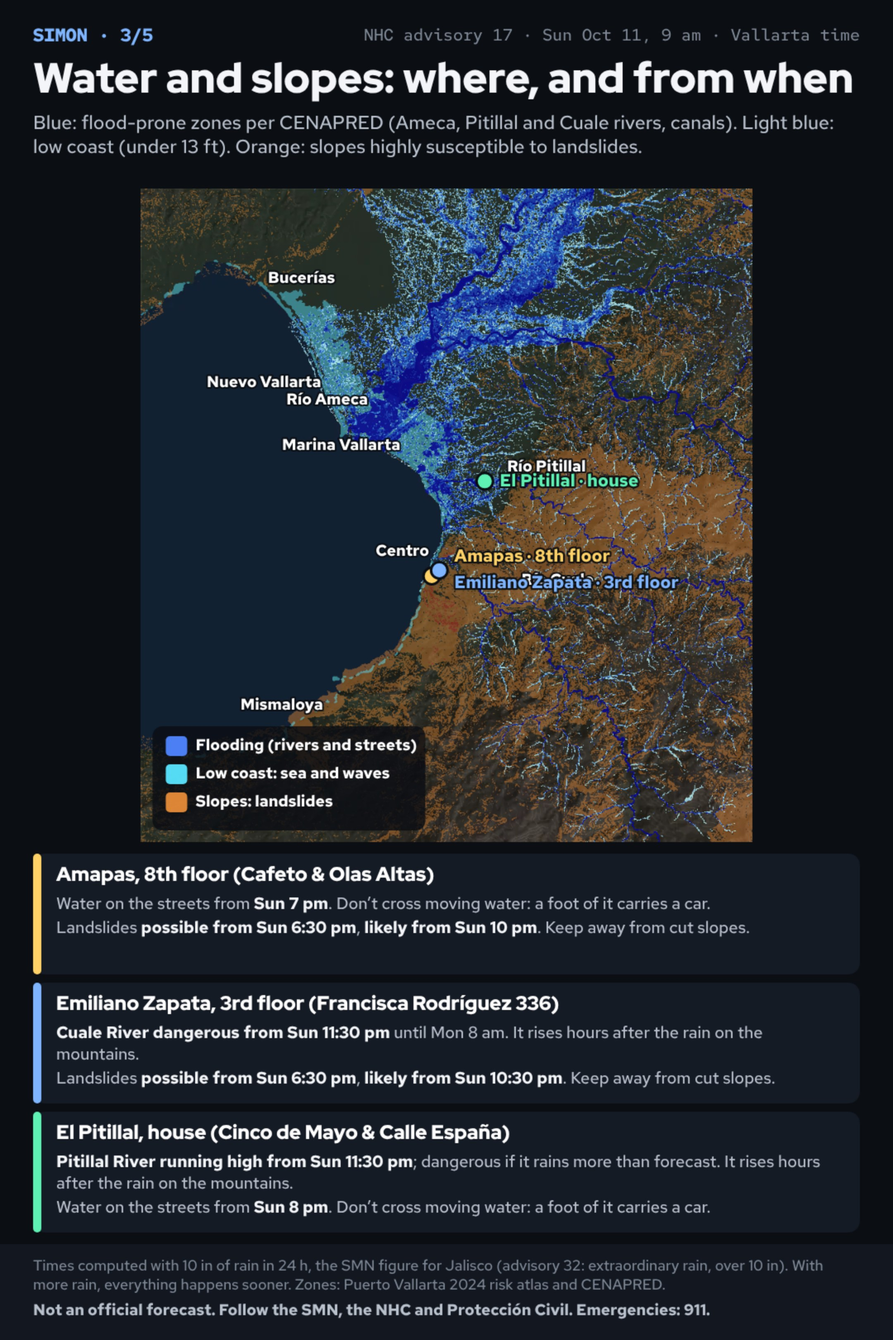
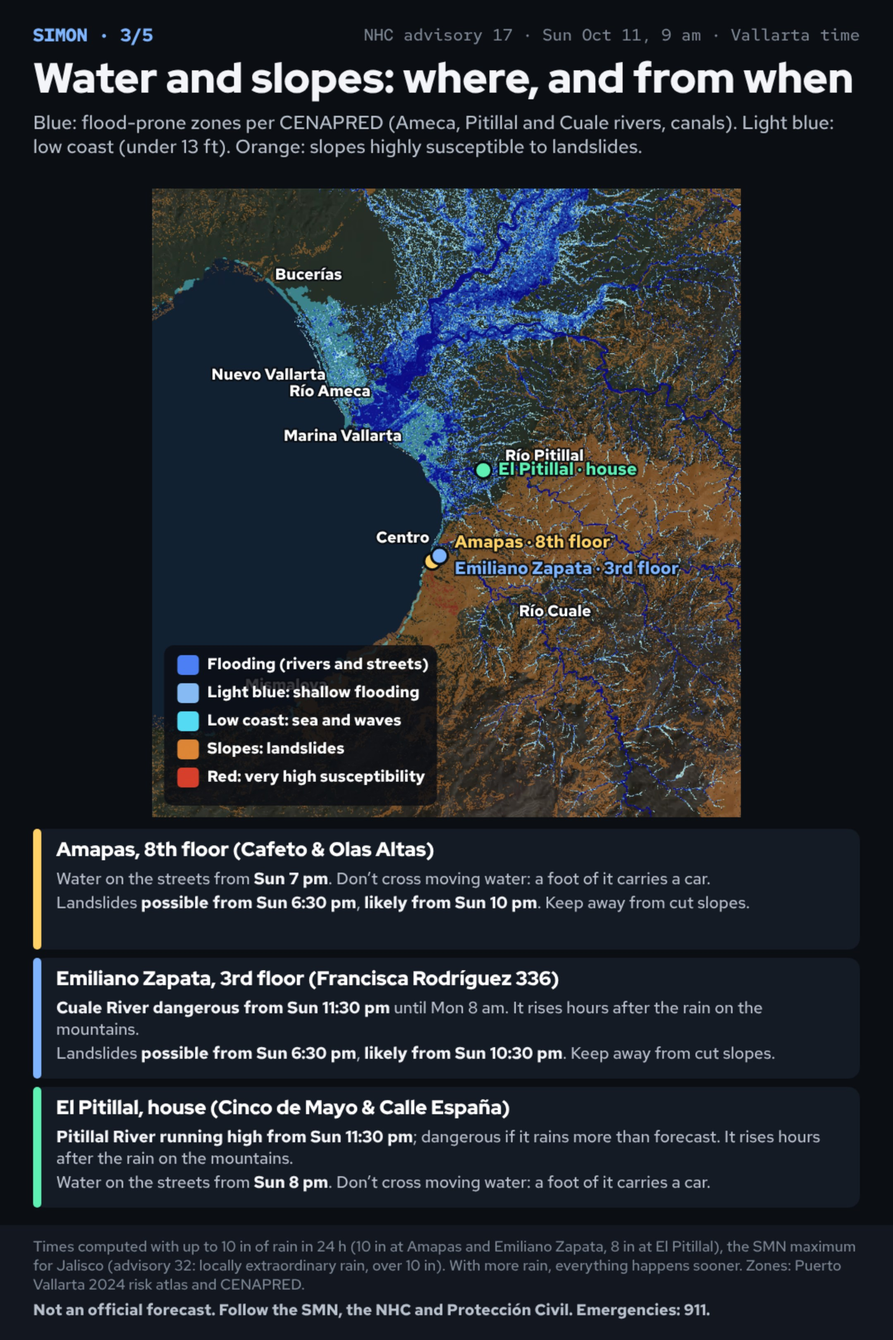
Simon graphics: fixes from the independent verification pass
Tropical-storm wording only where the stated sustained wind reaches it;
the worst stretch ends with the last hazard drawn (Monday 10 am); the
center's direction derived from its bearing (west-southwest); English
midnight/noon; Nayarit north-shore places carry the SMN Nayarit rain band;
arrival map marks cells never reaching 39 mph; models graphic: thresholds
at 63/119 km/h, NHC line to 48 h, sample-size caveat, reading paragraph
from the data.

Claude-Session: https://claude.ai/code/session_01FJNjJWTDcgPgB2hpttgoDr

Changed region(s): [[0.031, 0.1247, 0.9616, 0.9664]]

diff --git a/hurricane-simon/bay/src/graphics.html b/hurricane-simon/bay/src/graphics.html
@@ -18,7 +18,7 @@ var DS = {es: ['dom', 'lun', 'mar', 'mié', 'jue', 'vie', 'sáb'], en: ['Sun', '
 var DL = {es: ['domingo', 'lunes', 'martes', 'miércoles', 'jueves', 'viernes', 'sábado'], en: ['Sunday', 'Monday', 'Tuesday', 'Wednesday', 'Thursday', 'Friday', 'Saturday']};
 function cst(iso){ return new Date(Date.parse(iso.replace('Z', ':00Z')) - 6 * 3600e3); }
 function roundH(iso, m){ var d = cst(iso); var ms = (m || 30) * 60e3; return new Date(Math.round(d.getTime() / ms) * ms); }
-function hr(d){ var h = d.getUTCHours(), m = d.getUTCMinutes(); if (LANG === 'es') return String(h).padStart(2, '0') + ':' + String(m).padStart(2, '0'); var h12 = h % 12 || 12; return h12 + (m ? ':' + String(m).padStart(2, '0') : '') + (h < 12 ? ' am' : ' pm'); }
+function hr(d){ var h = d.getUTCHours(), m = d.getUTCMinutes(); if (LANG === 'es') return String(h).padStart(2, '0') + ':' + String(m).padStart(2, '0'); if (!m && h === 0) return 'midnight'; if (!m && h === 12) return 'noon'; var h12 = h % 12 || 12; return h12 + (m ? ':' + String(m).padStart(2, '0') : '') + (h < 12 ? ' am' : ' pm'); }
 function dh(iso, m){ var d = roundH(iso, m); return DS[LANG][d.getUTCDay()] + ' ' + hr(d); }
 function dhl(iso, m){ var d = roundH(iso, m); return DL[LANG][d.getUTCDay()] + ' ' + hr(d); }
 function span(a, b, m){ var da = roundH(a, m), db = roundH(b, m); if (da.getUTCDay() === db.getUTCDay()) return DS[LANG][da.getUTCDay()] + ' ' + hr(da) + '–' + hr(db); return DS[LANG][da.getUTCDay()] + ' ' + hr(da) + ' – ' + DS[LANG][db.getUTCDay()] + ' ' + hr(db); }
@@ -32,7 +32,9 @@ function rate(mmh){ return LANG === 'es' ? Math.round(mmh) + ' mm/h' : (mmh / 25
 function dist(km){ return LANG === 'es' ? Math.round(km / 5) * 5 + ' km' : Math.round(km / 1.609 / 5) * 5 + ' mi'; }
 var C16 = {es: ['N', 'NNE', 'NE', 'ENE', 'E', 'ESE', 'SE', 'SSE', 'S', 'SSO', 'SO', 'OSO', 'O', 'ONO', 'NO', 'NNO'], en: ['N', 'NNE', 'NE', 'ENE', 'E', 'ESE', 'SE', 'SSE', 'S', 'SSW', 'SW', 'WSW', 'W', 'WNW', 'NW', 'NNW']};
 var C8L = {es: ['norte', 'noreste', 'este', 'sureste', 'sur', 'suroeste', 'oeste', 'noroeste'], en: ['north', 'northeast', 'east', 'southeast', 'south', 'southwest', 'west', 'northwest']};
-function c16(d){ return C16[LANG][Math.round(d / 22.5) % 16]; } function c8(d){ return C8L[LANG][Math.round(d / 45) % 8]; }
+function c16(d){ return C16[LANG][Math.round(d / 22.5) % 16]; }
+var C16L = {es: ['norte', 'norte-noreste', 'noreste', 'este-noreste', 'este', 'este-sureste', 'sureste', 'sur-sureste', 'sur', 'sur-suroeste', 'suroeste', 'oeste-suroeste', 'oeste', 'oeste-noroeste', 'noroeste', 'norte-noroeste'], en: ['north', 'north-northeast', 'northeast', 'east-northeast', 'east', 'east-southeast', 'southeast', 'south-southeast', 'south', 'south-southwest', 'southwest', 'west-southwest', 'west', 'west-northwest', 'northwest', 'north-northwest']};
+function c16l(d){ return C16L[LANG][Math.round(d / 22.5) % 16]; } function c8(d){ return C8L[LANG][Math.round(d / 45) % 8]; }
 // ---------- drawing helpers ----------
 function roundRect(x, y, w, h, r){ cx.beginPath(); cx.moveTo(x + r, y); cx.arcTo(x + w, y, x + w, y + h, r); cx.arcTo(x + w, y + h, x, y + h, r); cx.arcTo(x, y + h, x, y, r); cx.arcTo(x, y, x + w, y, r); cx.closePath(); }
 function text(s, x, y, size, color, weight, align, font, halo){ cx.font = (weight || 500) + ' ' + size + 'px ' + (font || FT); cx.fillStyle = color || C.ink; cx.textAlign = align || 'left'; cx.textBaseline = 'middle';
@@ -70,7 +72,7 @@ function advLine(){ var m = /^(\d{1,2})(\d{2}) ([AP])M \w+ (\w{3}) \w{3} (\d+)/.
 var MAP_TOP = 228;
 var NOW_MS = Date.parse(BAY.t_obs.replace('Z', ':00Z'));
 function earlyTxt(iso){ return Date.parse(iso.replace('Z', ':00Z')) <= NOW_MS ? L('ya puede empezar en cualquier momento', 'it can start at any time now') : L('podría empezar desde ' + dh(iso), 'could start as early as ' + dh(iso)); }
-var SMN_AV = __SMN_AV__, SMN_RAIN = [250, null];   // SMN aviso quoted (build_graphics.py): rain for coastal/eastern Jalisco, [low, high]; high null = 'more than low'
+var SMN_AV = __SMN_AV__, SMN_RAIN = [250, null], SMN_RAIN_NAY = [75, 150];   // SMN aviso quoted (build_graphics.py): rain for coastal/eastern Jalisco, [low, high]; high null = 'more than low'
 function header(n, title, sub){ cx.fillStyle = C.bg; cx.fillRect(0, 0, W, H);
   text('SIMON · ' + n + '/5', 40, 44, 22, C.accent, 700, 'left', FM);
   text(advLine() + ' · ' + L('hora de Vallarta', 'Vallarta time'), W - 40, 44, 20, C.mute, 500, 'right', FM);
@@ -112,73 +114,78 @@ function siteCards(y0, lines, hgt){ var ch = hgt || 146; SITES.forEach(function(
 // ====================== 1. WIND ======================
 function gWind(){ header(1, L('Viento: cuánto, de dónde y dónde pega más', 'Wind: how strong, from where, where it hits hardest'),
     L('Colores: viento sostenido máximo sobre agua abierta si el centro sigue exactamente la línea del NHC. Flechas: hacia dónde sopla cuando es más fuerte. Línea blanca: trayectoria del NHC.', 'Colors: peak sustained wind over open water if the center follows the NHC line exactly. Arrows: where it blows toward when strongest. White line: NHC track.'));
-  var R = mapRect(MAP_TOP, 744, VB, 1080, 1039); cx.drawImage(IMG.bay_base, R.x, R.y, R.w, R.h);
-  cells(R, function(k){ var c = catCol(G.peak_kt[k]); return c ? hexA(c, 0.5) : null; });
+  var R = mapRect(MAP_TOP, 724, VB, 1080, 1039); cx.drawImage(IMG.bay_base, R.x, R.y, R.w, R.h);
+  cells(R, function(k){ var c = catCol(G.peak_kt[k]); return c ? hexA(c, 0.7) : null; });
   clipMap(R); for (var j = 2; j < G.ny; j += 4) for (var i = 2; i < G.nx; i += 4){ var k = j * G.nx + i; if (G.peak_kt[k] < 25) continue; var q = px(R, G.lat0 - j * G.d, G.lon0 + i * G.d); arrow(q[0], q[1], (G.dir[k] + 180) % 360, 18 + G.peak_kt[k] / 5, 'rgba(255,255,255,.75)', 2.5); } cx.restore();
   trackLine(R); placeLabels(R, function(p){ return spdK(p.peak_kt); }, SKIP_BAY); sitePins(R);
-  legendStrip(R.y + R.h + 26, [[hexA(C.t1, .9), L('45–62 km/h: fuerte', '29–38 mph: strong')], [hexA(C.t2, .9), L('63–92: tormenta tropical', '39–57: tropical storm')], [hexA(C.t3, .9), L('93–118: TT fuerte', '58–73: strong TS')], [hexA(C.t4, .9), L('119+: huracán', '74+: hurricane')]]);
+  legendStrip(R.y + R.h + 26, [[hexA(C.t1, .7), L('45–62 km/h: fuerte', '29–38 mph: strong')], [hexA(C.t2, .7), L('63–92: tormenta tropical', '39–57: tropical storm')], [hexA(C.t3, .7), L('93–118: TT fuerte', '58–73: strong TS')], [hexA(C.t4, .7), L('119+: huracán', '74+: hurricane')]]);
   siteCards(R.y + R.h + 56, function(s){ var w = s.wind, dir = c8(w.dir_at_peak); return [
     L('Sostenido hasta *' + spd(w.peak_vb_kmh) + '*, rachas hasta *' + spd(w.peak_gb_kmh) + '*, del *' + dir + '*.', 'Sustained up to *' + spd(w.peak_vb_kmh) + '*, gusts to *' + spd(w.peak_gb_kmh) + '*, from the *' + dir + '*.'),
-    w.ts ? L('Viento de tormenta tropical *' + spanW(w.ts) + '*. Lo más fuerte: hacia *' + dh(w.peak_t) + '* y al pasar el centro, *' + dh(s.closest.t) + '*.', 'Tropical-storm-force wind *' + spanW(w.ts) + '*. Strongest around *' + dh(w.peak_t) + '* and as the center passes, *' + dh(s.closest.t) + '*.')
+    (w.ts && w.peak_vb_kmh >= 63) ? L('Viento de tormenta tropical *' + spanW(w.ts) + '*. Lo más fuerte al pasar el centro, *' + dh(s.closest.t) + '*.', 'Tropical-storm-force wind *' + spanW(w.ts) + '*. Strongest as the center passes, *' + dh(s.closest.t) + '*.')
+         : w.peak_gb_kmh >= 63 ? L('Viento fuerte, con rachas de tormenta tropical, *' + spanW(w.worst) + '*. Lo más fuerte al pasar el centro, *' + dh(s.closest.t) + '*.', 'Strong wind, with tropical-storm-force gusts, *' + spanW(w.worst) + '*. Strongest as the center passes, *' + dh(s.closest.t) + '*.')
          : L('Viento fuerte con rachas *' + spanW(w.worst) + '*. Lo más fuerte al pasar el centro, *' + dh(s.closest.t) + '*.', 'Strong, gusty wind *' + spanW(w.worst) + '*. Strongest as the center passes, *' + dh(s.closest.t) + '*.')]; });
-  footer([L('Cifras de los tres sitios: con las probabilidades de viento del NHC para Puerto Vallarta (' + PP['34'] + '% tormenta tropical · ' + PP['50'] + '% de 93 km/h o más · ' + PP['64'] + '% huracán) y la altura y el entorno de cada edificio. Pueden ser mayores o menores.', 'Site figures: from the NHC wind odds for Puerto Vallarta (' + PP['34'] + '% tropical storm · ' + PP['50'] + '% for 58 mph or more · ' + PP['64'] + '% hurricane) and each building’s height and surroundings. They can run higher or lower.')]); }
+  footer([L('Cifras de los tres sitios: con las probabilidades de viento del NHC para Puerto Vallarta (' + PP['34'] + '% tormenta tropical · ' + PP['50'] + '% de 93 km/h o más · ' + PP['64'] + '% huracán) y la altura y el entorno de cada edificio. Pueden ser mayores o menores. El mapa no aplica esa corrección: muestra el viento sobre agua abierta si el centro siguiera exactamente la línea del NHC.', 'Site figures: from the NHC wind odds for Puerto Vallarta (' + PP['34'] + '% tropical storm · ' + PP['50'] + '% for 58 mph or more · ' + PP['64'] + '% hurricane) and each building’s height and surroundings. They can run higher or lower. The map does not apply that correction: it shows the open-water wind if the center followed the NHC line exactly.')]); }
 // ====================== 2. RAIN ======================
 function gRain(){ header(2, L('Lluvia: cuánta y cuándo cae más', 'Rain: how much, and when it falls hardest'),
-    L('Total de ahora al lunes 12:00: el patrón de lluvia que hoy mide el satélite, llevado sobre la línea del NHC y escalado al pronóstico del SMN para la costa de Jalisco (250 mm en 24 h en los tres sitios). La sierra recibe más de lo que muestra el mapa.', 'Total from now to Monday noon: today’s satellite rain pattern carried along the NHC line, scaled to the SMN forecast for coastal Jalisco (10 in per 24 h at the three sites). The mountains get more than the map shows.'));
-  var R = mapRect(MAP_TOP, 744, VB, 1080, 1039); cx.drawImage(IMG.bay_base, R.x, R.y, R.w, R.h);
+    L('Total de ahora al lunes 12:00: el patrón de lluvia que hoy mide el satélite, llevado sobre la línea del NHC y escalado al pronóstico del SMN para la costa de Jalisco (' + Math.round(BAY.cal_max24) + ' mm en 24 h en el sitio más lluvioso de los tres). La sierra recibe más; la orilla norte (Nayarit) menos.', 'Total from now to Monday noon: today’s satellite rain pattern carried along the NHC line, scaled to the SMN forecast for coastal Jalisco (' + Math.round(BAY.cal_max24 / 25.4) + ' in per 24 h at the wettest of the three sites). The mountains get more; the north shore (Nayarit) less.'));
+  var R = mapRect(MAP_TOP, 716, VB, 1080, 1039); cx.drawImage(IMG.bay_base, R.x, R.y, R.w, R.h);
   var ramp = function(mm){ if (mm < 100) return 'rgba(140,200,255,.25)'; var t = Math.min(1, (mm - 100) / 300); return 'rgba(' + Math.round(150 - 130 * t) + ',' + Math.round(205 - 150 * t) + ',255,' + (0.45 + 0.4 * t) + ')'; };
   cells(R, function(k){ return G.land[k] ? ramp(G.rain_mm[k]) : null; });
   var rainCap = function(mm){ return mm >= 400 ? (LANG === 'es' ? '400+ mm' : '16+ in') : rain(mm); };
-  trackLine(R, 4, false); placeLabels(R, function(p){ return rainCap(p.rain_mm); }, SKIP_BAY); sitePins(R);
-  legendStrip(R.y + R.h + 26, [[ramp(50), L('<100 mm', '<4 in')], [ramp(150), L('100–200', '4–8')], [ramp(250), L('200–300', '8–12')], [ramp(350), L('300–400', '12–16')], [ramp(450), L('>400 mm', '>16 in')]], L('Total en tierra hasta el lunes 12:00:', 'Total over land to Monday noon:'));
-  var rawNote = BAY.rain_cal > 1.5 ? L(' El patrón del satélite por sí solo daría mucho menos aquí (~' + rain(SITES[0].rain.total_mm / BAY.rain_cal) + ') con el centro tan al oeste; las cifras siguen el pronóstico oficial.', ' The satellite pattern alone would give far less here (~' + rain(SITES[0].rain.total_mm / BAY.rain_cal) + ') with the center this far west; the figures follow the official forecast.') : '';
+  var NAYARIT = {'Punta Mita': 1, 'Sayulita': 1, 'Bucerías': 1, 'Nuevo Vallarta': 1};   // north shore is Nayarit: the SMN gives it its own band
+  trackLine(R, 4, false); placeLabels(R, function(p){ return NAYARIT[p.name] ? L('SMN: ' + SMN_RAIN_NAY[0] + '–' + SMN_RAIN_NAY[1] + ' mm', 'SMN: ' + Math.round(SMN_RAIN_NAY[0] / 25.4) + '–' + Math.round(SMN_RAIN_NAY[1] / 25.4) + ' in') : rainCap(p.rain_mm); }, SKIP_BAY); sitePins(R);
+  legendStrip(R.y + R.h + 26, [[ramp(50), L('<100', '<4 in')], [ramp(150), L('100–200', '4–8')], [ramp(250), L('200–300', '8–12')], [ramp(350), L('300–400', '12–16')], [ramp(450), L('>400 mm', '>16 in')]], L('Total en tierra al lunes 12:00:', 'Total over land to Monday noon:'));
+  var rawNote = BAY.rain_cal > 1.5 ? L(' El satélite por sí solo daría ~' + rain(SITES[0].rain.total_mm / BAY.rain_cal) + ' aquí; las cifras siguen el pronóstico oficial.', ' The satellite alone would give ~' + rain(SITES[0].rain.total_mm / BAY.rain_cal) + ' here; the figures follow the official forecast.') : '';
   siteCards(R.y + R.h + 56, function(s){ var r = s.rain; return [
     L('Total estimado *' + rain(r.total_mm) + '*. Las 6 horas más lluviosas: *' + span(r.wettest6[0], r.wettest6[1]) + '* (' + rain(r.wettest6[2]) + ').', 'Estimated total *' + rain(r.total_mm) + '*. Wettest 6 hours: *' + span(r.wettest6[0], r.wettest6[1]) + '* (' + rain(r.wettest6[2]) + ').'),
     (r.heavy ? L('Lluvia fuerte *' + spanW(r.heavy) + '*; la más intensa hacia *' + dh(r.peak_t) + '* (~' + rate(r.peak_rate) + ').', 'Heavy rain *' + spanW(r.heavy) + '*; most intense around *' + dh(r.peak_t) + '* (~' + rate(r.peak_rate) + ').') : '') + (s.id === 'amapas' ? rawNote : '')]; }, 150);
-  var RN = BAY.rain_nhc; var smnR = SMN_RAIN[1] ? L(SMN_RAIN[0] + '–' + SMN_RAIN[1] + ' mm', Math.round(SMN_RAIN[0] / 25.4) + '–' + Math.round(SMN_RAIN[1] / 25.4) + ' in') : L('más de ' + SMN_RAIN[0] + ' mm', 'over ' + Math.round(SMN_RAIN[0] / 25.4) + ' in');
-  footer([L('Para la región: SMN (aviso ' + SMN_AV + ') ' + smnR + ' en la costa y el este de Jalisco; NHC (boletín ' + ADV.num + ') ' + (RN ? (RN.add ? RN.mm[0] + '–' + RN.mm[1] + ' mm más' : RN.mm[0] + '–' + RN.mm[1] + ' mm') + ' en partes del suroeste de México' + (RN.iso ? ', hasta ' + RN.mm[2] + ' mm en puntos aislados' : '') : 'lluvias torrenciales') + '. Si llueve más, lo de los ríos pasa antes.', 'For the region: SMN (advisory ' + SMN_AV + ') ' + smnR + ' on the Jalisco coast and east; NHC (advisory ' + ADV.num + ') ' + (RN ? (RN.add ? 'another ' : '') + RN.lo + '–' + RN.hi + ' in over parts of southwestern Mexico' + (RN.iso ? ', isolated ' + RN.iso + ' in' : '') : 'torrential rain') + '. With more rain, the rivers rise sooner.')]); }
+  var RN = BAY.rain_nhc; var smnR = SMN_RAIN[1] ? L(SMN_RAIN[0] + '–' + SMN_RAIN[1] + ' mm', Math.round(SMN_RAIN[0] / 25.4) + '–' + Math.round(SMN_RAIN[1] / 25.4) + ' in') : L('lluvias puntuales de más de ' + SMN_RAIN[0] + ' mm', 'locally over ' + Math.round(SMN_RAIN[0] / 25.4) + ' in');
+  var nay = L(' y de ' + SMN_RAIN_NAY[0] + ' a ' + SMN_RAIN_NAY[1] + ' mm en el sur de Nayarit (Nuevo Vallarta, Bucerías, Punta Mita, Sayulita)', ', and ' + Math.round(SMN_RAIN_NAY[0] / 25.4) + '–' + Math.round(SMN_RAIN_NAY[1] / 25.4) + ' in in southern Nayarit (Nuevo Vallarta, Bucerías, Punta Mita, Sayulita)');
+  footer([L('Para la región: SMN (aviso ' + SMN_AV + ') ' + smnR + ' en la costa y el este de Jalisco' + nay + '; NHC (boletín ' + ADV.num + ') ' + (RN ? (RN.add ? RN.mm[0] + '–' + RN.mm[1] + ' mm más' : RN.mm[0] + '–' + RN.mm[1] + ' mm') + ' en partes del suroeste de México' + (RN.iso ? '; totales aislados de hasta ' + RN.mm[2] + ' mm en Michoacán, Colima y Jalisco' : '') : 'lluvias torrenciales') + '. Si llueve más, lo de los ríos pasa antes.', 'For the region: SMN (advisory ' + SMN_AV + ') ' + smnR + ' on the Jalisco coast and east' + nay + '; NHC (advisory ' + ADV.num + ') ' + (RN ? (RN.add ? 'another ' : '') + RN.lo + '–' + RN.hi + ' in over parts of southwestern Mexico' + (RN.iso ? '; isolated storm totals of ' + RN.iso + ' in across Michoacán, Colima and Jalisco' : '') : 'torrential rain') + '. With more rain, the rivers rise sooner.')]); }
 // ====================== 3. FLOODING ======================
 var CB = [20.8, 20.46, -105.4, -105.06];
 function gFlood(){ header(3, L('Agua y laderas: dónde y desde cuándo', 'Water and slopes: where, and from when'),
     L('Azul: zonas inundables según CENAPRED (ríos Ameca, Pitillal y Cuale, canales). Celeste: costa baja (menos de 4 m). Naranja: laderas con alta susceptibilidad a deslaves.', 'Blue: flood-prone zones per CENAPRED (Ameca, Pitillal and Cuale rivers, canals). Light blue: low coast (under 13 ft). Orange: slopes highly susceptible to landslides.'));
-  var R = mapRect(MAP_TOP, 790, CB, 900, 962); cx.drawImage(IMG.base_city_dark, R.x, R.y, R.w, R.h);
+  var R = mapRect(MAP_TOP, 760, CB, 900, 962); cx.drawImage(IMG.base_city_dark, R.x, R.y, R.w, R.h);
   if (IMG.atlas_slide_city){ cx.globalAlpha = 0.55; cx.drawImage(IMG.atlas_slide_city, R.x, R.y, R.w, R.h); cx.globalAlpha = 1; }
   if (IMG.lowcoast_city){ cx.globalAlpha = 0.7; cx.drawImage(IMG.lowcoast_city, R.x, R.y, R.w, R.h); cx.globalAlpha = 1; }
   if (IMG.atlas_flood_city){ cx.globalAlpha = 0.9; cx.drawImage(IMG.atlas_flood_city, R.x, R.y, R.w, R.h); cx.globalAlpha = 1; }
   var v = LY.views.city, s2 = R.w / v.w; clipMap(R); cx.strokeStyle = '#8cc4ff'; cx.lineWidth = 2.5; (v.layers.rivers || []).forEach(function(a){ cx.beginPath(); a.forEach(function(p, k){ k ? cx.lineTo(R.x + p[0] * s2, R.y + p[1] * s2) : cx.moveTo(R.x + p[0] * s2, R.y + p[1] * s2); }); cx.stroke(); }); cx.restore();
-  [['Río Ameca', 20.69, -105.27, 'l'], ['Río Pitillal', 20.655, -105.20, 'r'], ['Río Cuale', 20.596, -105.192, 'r'], ['Bucerías', 20.753, -105.333, 'r'], ['Nuevo Vallarta', 20.699, -105.296, 'l'], ['Marina Vallarta', 20.666, -105.252, 'l'], ['Centro', 20.611, -105.236, 'l'], ['Mismaloya', 20.531, -105.295, 'l']].forEach(function(q){ var p = px(R, q[1], q[2]); text(q[0], p[0] + (q[3] === 'l' ? -8 : 8), p[1], 19, '#fff', 700, q[3] === 'l' ? 'right' : 'left', FT, true); });
+  [['Río Ameca', 20.69, -105.27, 'l'], ['Río Pitillal', 20.655, -105.20, 'r'], ['Río Cuale', 20.571, -105.192, 'r'], ['Bucerías', 20.753, -105.333, 'r'], ['Nuevo Vallarta', 20.699, -105.296, 'l'], ['Marina Vallarta', 20.666, -105.252, 'l'], ['Centro', 20.611, -105.236, 'l'], ['Mismaloya', 20.531, -105.295, 'l']].forEach(function(q){ var p = px(R, q[1], q[2]); text(q[0], p[0] + (q[3] === 'l' ? -8 : 8), p[1], 19, '#fff', 700, q[3] === 'l' ? 'right' : 'left', FT, true); });
   sitePins(R);
-  legendBox(R.x + 14, R.y + R.h - 14 - 126, 330, [['rgba(79,134,255,.95)', L('Inundación (ríos y calles)', 'Flooding (rivers and streets)')], ['rgba(90,230,255,.95)', L('Costa baja: mar y olas', 'Low coast: sea and waves')], ['rgba(232,140,56,.95)', L('Laderas: deslaves', 'Slopes: landslides')]]);
+  var frows = [['rgba(79,134,255,.95)', L('Inundación (ríos y calles)', 'Flooding (rivers and streets)')], ['rgba(140,196,255,.95)', L('Azul claro: inundación somera', 'Light blue: shallow flooding')], ['rgba(90,230,255,.95)', L('Costa baja: mar y olas', 'Low coast: sea and waves')], ['rgba(232,140,56,.95)', L('Laderas: deslaves', 'Slopes: landslides')], ['rgba(226,66,44,.95)', L('Rojo: susceptibilidad muy alta', 'Red: very high susceptibility')]];
+  legendBox(R.x + 14, R.y + R.h - 14 - (24 + frows.length * 34), 330, frows);
   siteCards(R.y + R.h + 14, function(s){ var lines = []; var rv = s.id === 'pitillal' ? 'Pitillal' : 'Cuale';
     if (s.river && !s.river.dangerous && s.river.elevated) lines.push(L('*Río ' + rv + ' crecido desde ' + dh(s.river.elevated[0]) + '*; peligroso si llueve más de lo previsto. Crece horas después de la lluvia en la sierra.', '*' + rv + ' River running high from ' + dh(s.river.elevated[0]) + '*; dangerous if it rains more than forecast. It rises hours after the rain on the mountains.'));
     if (s.river && s.river.dangerous) lines.push(L('*Río ' + rv + ' peligroso desde ' + dh(s.river.dangerous[0]) + '*' + (s.river.dangerous[2] ? ', y sigue alto el lunes' : ' hasta ' + dh(s.river.dangerous[1])) + '. Crece horas después de la lluvia en la sierra.', '*' + rv + ' River dangerous from ' + dh(s.river.dangerous[0]) + '*' + (s.river.dangerous[2] ? ', staying high on Monday' : ' until ' + dh(s.river.dangerous[1])) + '. It rises hours after the rain on the mountains.'));
     if (s.streets && s.streets.some) lines.push(L('Agua en las calles desde *' + dh(s.streets.some[0]) + '*. No cruces agua en movimiento: 30 cm arrastran un auto.', 'Water on the streets from *' + dh(s.streets.some[0]) + '*. Don’t cross moving water: a foot of it carries a car.'));
     if (s.slide && s.slide.possible) lines.push(L('Deslaves *posibles desde ' + dh(s.slide.possible[0]) + '*' + (s.slide.likely ? ', *probables desde ' + dh(s.slide.likely[0]) + '*' : '') + '. Lejos de taludes.', 'Landslides *possible from ' + dh(s.slide.possible[0]) + '*' + (s.slide.likely ? ', *likely from ' + dh(s.slide.likely[0]) + '*' : '') + '. Keep away from cut slopes.'));
     if (s.id === 'ezapata') lines = [lines[0], lines[2] || lines[1]]; return lines.slice(0, 2); });
-  footer([L('Horas calculadas con 250 mm de lluvia en 24 h, la cifra del SMN para Jalisco (aviso ' + SMN_AV + ': lluvias extraordinarias, de más de 250 mm). Con más lluvia, todo pasa antes. Zonas: Atlas de Riesgos de Puerto Vallarta 2024 y CENAPRED.', 'Times computed with 10 in of rain in 24 h, the SMN figure for Jalisco (advisory ' + SMN_AV + ': extraordinary rain, over 10 in). With more rain, everything happens sooner. Zones: Puerto Vallarta 2024 risk atlas and CENAPRED.')]); }
+  footer([L('Horas calculadas con hasta ' + Math.round(BAY.cal_max24) + ' mm de lluvia en 24 h (' + rain(SITES[0].rain.total_mm) + ' en Amapas y Emiliano Zapata, ' + rain(SITES[2].rain.total_mm) + ' en El Pitillal), la cifra máxima del SMN para Jalisco (aviso ' + SMN_AV + ': lluvias puntuales extraordinarias, de más de 250 mm). Con más lluvia, todo pasa antes. Zonas: Atlas de Riesgos de Puerto Vallarta 2024 y CENAPRED.', 'Times computed with up to ' + Math.round(BAY.cal_max24 / 25.4) + ' in of rain in 24 h (' + rain(SITES[0].rain.total_mm) + ' at Amapas and Emiliano Zapata, ' + rain(SITES[2].rain.total_mm) + ' at El Pitillal), the SMN maximum for Jalisco (advisory ' + SMN_AV + ': locally extraordinary rain, over 10 in). With more rain, everything happens sooner. Zones: Puerto Vallarta 2024 risk atlas and CENAPRED.')]); }
 // ====================== 4. TIMING ======================
 function gTiming(){ header(4, L('Cuándo llega y cuándo es lo peor', 'When it arrives, and when it is worst'),
     L('Mapa: a qué hora llega el viento de tormenta tropical (63 km/h) a cada parte de la bahía si el centro sigue la línea del NHC. Abajo: hora por hora en los tres sitios.', 'Map: when tropical-storm-force wind (39 mph) reaches each part of the bay if the center follows the NHC line. Below: hour by hour at the three sites.'));
   var R = mapRect(MAP_TOP, 600, VB, 1080, 1039, 40); cx.drawImage(IMG.bay_base, R.x, R.y, R.w, R.h);
   var bands = [['2026-10-11T18:00Z', '#fff2c6'], ['2026-10-11T21:00Z', '#ffd166'], ['2026-10-12T00:00Z', '#f4a142'], ['2026-10-12T03:00Z', '#ef5a5a'], ['2026-10-12T06:00Z', '#b03bd6']];
   var bi = bands.map(function(b){ return BAY.times.indexOf(b[0]); });
-  cells(R, function(k){ var a = G.arr[k]; if (a < 0) return null; for (var q = 0; q < bi.length; q++) if (a < bi[q]) return hexA(bands[q][1], 0.6); return hexA('#6b3fa0', 0.6); });
+  cells(R, function(k){ var a = G.arr[k]; if (a < 0) return 'rgba(255,255,255,.12)'; for (var q = 0; q < bi.length; q++) if (a < bi[q]) return hexA(bands[q][1], 0.6); return hexA(bands[4][1], 0.6); });
   trackLine(R, 4, false); placeLabels(R, function(p){ return p.arr ? dh(p.arr) : L('no llega', 'does not arrive'); }, SKIP_BAY.concat(['El Tuito'])); sitePins(R, false);
-  legendBox(R.x + R.w + 20, R.y, W - 40 - (R.x + R.w + 20), [[hexA(bands[0][1], .9), L('antes de dom 12:00', 'before Sun noon')], [hexA(bands[1][1], .9), L('dom 12:00–15:00', 'Sun noon–3 pm')], [hexA(bands[2][1], .9), L('dom 15:00–18:00', 'Sun 3–6 pm')], [hexA(bands[3][1], .9), L('dom 18:00–21:00', 'Sun 6–9 pm')], [hexA(bands[4][1], .9), L('dom 21:00 o después', 'Sun 9 pm or later')]], L('Llega el viento de 63 km/h', '39-mph wind arrives'));
-  var toa = WC.toa34, lx = R.x + R.w + 20, ly = R.y + 236;
-  cx.fillStyle = '#151b25'; roundRect(lx, ly, W - 40 - lx, R.h - 236, 12); cx.fill();
+  var lh = legendBox(R.x + R.w + 20, R.y, W - 40 - (R.x + R.w + 20), [[hexA(bands[0][1], .9), L('antes de dom 12:00', 'before Sun noon')], [hexA(bands[1][1], .9), L('dom 12:00–15:00', 'Sun noon–3 pm')], [hexA(bands[2][1], .9), L('dom 15:00–18:00', 'Sun 3–6 pm')], [hexA(bands[3][1], .9), L('dom 18:00–21:00', 'Sun 6–9 pm')], [hexA(bands[4][1], .9), L('dom 21:00 o después', 'Sun 9 pm or later')], ['rgba(255,255,255,.3)', L('no llega a 63 km/h', 'never reaches 39 mph')]], L('Llega el viento de 63 km/h', '39-mph wind arrives'));
+  var toa = WC.toa34, lx = R.x + R.w + 20, ly = R.y + lh + 12, passDir = c16l((MD.now.OFCL.sites.pv.closest.brg + 180) % 360);
+  cx.fillStyle = '#151b25'; roundRect(lx, ly, W - 40 - lx, R.h - lh - 12, 12); cx.fill();
   text(L('Puerto Vallarta, según el NHC:', 'Puerto Vallarta, per the NHC:'), lx + 16, ly + 26, 19, '#fff', 700, 'left', FT);
   var yy = ly + 56; yy += rich(L('Viento de tormenta tropical: *' + PP['34'] + '%* de probabilidad. Más probable desde *' + dh(toa.likely) + '*; *' + earlyTxt(toa.early) + '*.', 'Tropical-storm-force wind: *' + PP['34'] + '%* chance. Most likely from *' + dh(toa.likely) + '*; *' + earlyTxt(toa.early) + '*.'), lx + 16, yy, W - 40 - lx - 32, 19, 25, C.ink2);
-  yy += 8; yy += rich(L('Viento de huracán: *' + PP['64'] + '%*. El centro pasaría a unos *' + dist(SITES[0].closest.km) + ' al oeste*, hacia *' + dh(SITES[0].closest.t) + '*.', 'Hurricane-force wind: *' + PP['64'] + '%*. The center would pass about *' + dist(SITES[0].closest.km) + ' west*, around *' + dh(SITES[0].closest.t) + '*.'), lx + 16, yy, W - 40 - lx - 32, 19, 25, C.ink2);
+  yy += 8; yy += rich(L('Viento de huracán: *' + PP['64'] + '%*. El centro pasaría a unos *' + dist(SITES[0].closest.km) + ' al ' + passDir + '*, hacia *' + dh(SITES[0].closest.t) + '*.', 'Hurricane-force wind: *' + PP['64'] + '%*. The center would pass about *' + dist(SITES[0].closest.km) + ' ' + passDir + '*, around *' + dh(SITES[0].closest.t) + '*.'), lx + 16, yy, W - 40 - lx - 32, 19, 25, C.ink2);
   yy += 8; rich(Date.parse(toa.early.replace('Z', ':00Z')) <= NOW_MS ? L('Si te faltan preparativos, *termínalos ya*: el viento fuerte puede empezar en cualquier momento.', 'If you still have preparations to make, *finish them now*: strong wind can start at any time.') : L('Si te faltan preparativos, hazlos *antes de ' + dh(toa.early, 60) + '*.', 'If you still have preparations to make, do them *before ' + dh(toa.early, 60) + '*.'), lx + 16, yy, W - 40 - lx - 32, 19, 25, C.ink2);
   // timeline
   var T0 = Date.parse('2026-10-11T12:00:00Z'), T1 = Date.parse('2026-10-12T18:00:00Z'), x0 = 330, x1 = W - 56, y = R.y + R.h + 74;
   var X = function(iso){ return x0 + (Date.parse(iso.replace('Z', ':00Z')) - T0) / (T1 - T0) * (x1 - x0); };
   for (var t = T0; t <= T1; t += 6 * 3600e3){ var iso = new Date(t).toISOString().slice(0, 16) + 'Z', xx = X(iso), d = cst(iso); cx.fillStyle = C.line; cx.fillRect(xx, y - 18, 1, 8 * 54 - 6); text(d.getUTCHours() === 0 ? DS[LANG][d.getUTCDay()] : hr(d), xx, y - 32, 18, C.mute, 600, 'center', FM); }
   var am = SITES[0], ez = SITES[1], pi = SITES[2], rows = [];
-  rows.push([L('Viento de tormenta tropical', 'Tropical-storm-force wind'), toa ? [toa.likely, BAY.times[BAY.times.length - 1], true, toa.early] : null, C.t2, L('más probable desde ' + dh(toa.likely) + '; ' + earlyTxt(toa.early), 'most likely from ' + dh(toa.likely) + '; ' + earlyTxt(toa.early))]);
+  var pvc = BAY.places.filter(function(p){ return p.name === 'Centro PV'; })[0], pvEnd = pvc && pvc.end ? pvc.end : null;
+  rows.push([L('Viento de tormenta tropical', 'Tropical-storm-force wind'), toa ? [toa.likely, pvEnd || BAY.times[BAY.times.length - 1], !pvEnd, toa.early] : null, C.t2, L('más probable ' + (pvEnd ? span(toa.likely, pvEnd) : 'desde ' + dh(toa.likely)) + '; ' + earlyTxt(toa.early), 'most likely ' + (pvEnd ? span(toa.likely, pvEnd) : 'from ' + dh(toa.likely)) + '; ' + earlyTxt(toa.early))]);
   rows.push([L('Rachas más fuertes (8.º piso)', 'Strongest gusts (8th floor)'), am.wind.worst, C.t3, L('hasta ' + spd(am.wind.peak_gb_kmh) + ' en Amapas', 'to ' + spd(am.wind.peak_gb_kmh) + ' in Amapas')]);
-  rows.push([L('Paso del centro', 'Center passes'), [SITES[0].closest.t, SITES[2].closest.t], '#ffffff', L(dh(SITES[0].closest.t) + ', a unos ' + dist(am.closest.km) + ' al oeste', dh(SITES[0].closest.t) + ', about ' + dist(am.closest.km) + ' west')]);
+  rows.push([L('Paso del centro', 'Center passes'), [SITES[0].closest.t, SITES[2].closest.t], '#ffffff', L(dh(SITES[0].closest.t) + ', a unos ' + dist(am.closest.km) + ' al ' + passDir, dh(SITES[0].closest.t) + ', about ' + dist(am.closest.km) + ' ' + passDir)]);
   rows.push([L('Lluvia fuerte', 'Heavy rain'), am.rain.heavy, '#7f6bff', L('lo más intenso ' + span(am.rain.wettest6[0], am.rain.wettest6[1]), 'most intense ' + span(am.rain.wettest6[0], am.rain.wettest6[1]))]);
   rows.push([L('Agua en calles', 'Water on streets'), pi.streets.some, '#5eb4ff', L('desde ' + dh(pi.streets.some[0]), 'from ' + dh(pi.streets.some[0]))]);
   rows.push([L('Río Cuale peligroso', 'Cuale River dangerous'), ez.river && ez.river.dangerous, C.water, ez.river && ez.river.dangerous ? L('desde ' + dh(ez.river.dangerous[0]), 'from ' + dh(ez.river.dangerous[0])) : '']);
@@ -192,7 +199,8 @@ function gTiming(){ header(4, L('Cuándo llega y cuándo es lo peor', 'When it a
       if (r[1][2] === true){ cx.beginPath(); cx.moveTo(x1 + 4, yy + 2); cx.lineTo(x1 + 20, yy + 14); cx.lineTo(x1 + 4, yy + 26); cx.closePath(); cx.fill(); } }
     if (r[3]) text(r[3], x0 + 6, yy + 42, 17, C.ink2, 500, 'left', FT); });
   var wy = y + rows.length * 54 + 14; cx.fillStyle = '#2a1a1a'; roundRect(40, wy, W - 80, 90, 14); cx.fill(); cx.fillStyle = C.t3; roundRect(40, wy, 10, 90, 5); cx.fill();
-  var worst0 = am.rain.heavy ? am.rain.heavy[0] : am.wind.peak_t, worst1 = pi.river && pi.river.dangerous ? (pi.river.dangerous[2] ? BAY.times[BAY.times.length - 1] : pi.river.dangerous[1]) : am.wind.ts[1];
+  var ends = [am.rain.heavy && am.rain.heavy[1], ez.river && ez.river.dangerous && ez.river.dangerous[1], pr && pr[1], am.wind.worst && am.wind.worst[1]].filter(Boolean).sort();
+  var worst0 = am.rain.heavy ? am.rain.heavy[0] : am.wind.peak_t, worst1 = ends[ends.length - 1];
   var wt = L('Lo peor: ' + dhl(worst0, 60) + ' a ' + dhl(worst1, 60), 'The worst: ' + dhl(worst0, 60) + ' to ' + dhl(worst1, 60)); text(wt, 68, wy + 32, fitText(wt, W - 130, 32), '#fff', 800, 'left', FD);
   text(L('Viento con rachas, la lluvia más fuerte y luego los ríos. No salgas en esas horas.', 'Gusty wind, the heaviest rain, then the rivers. Stay in during those hours.'), 68, wy + 66, 21, C.ink2, 500, 'left', FT);
   footer([L('Horas aproximadas: pueden moverse algunas horas con cada boletín. Franja clara: desde cuándo podría empezar; barra: lo más probable. Flecha: sigue después del lunes 12:00.', 'Approximate: times can shift by a few hours with each advisory. Light band: when it could start; bar: most likely. Arrow: continues past Monday noon.')]); }
@@ -205,9 +213,10 @@ function gModels(){ header(5, L('Los modelos: cuáles han acertado y qué dicen 
   var MC = ['#5ff0b4', '#7fb5ff', '#ffd166', '#f4a142', '#ef5a5a', '#b03bd6', '#ff8ad0', '#9fe0ff', '#c9b27c'];
   var mname = function(k){ var sk = MD.skill[MD.now[k].late]; return sk ? sk.name[LANG === 'es' ? 0 : 1].replace(/ \(.*\)$/, '') : MD.now[k].name; };
   order.forEach(function(k, n){ var tr = FC.tracks[k].pts.filter(function(p){ return p[0] <= 48; }); cx.strokeStyle = MC[n % MC.length]; cx.lineWidth = 3; cx.beginPath(); tr.forEach(function(p, q){ var z = px(R, p[1], p[2]); q ? cx.lineTo(z[0], z[1]) : cx.moveTo(z[0], z[1]); }); cx.stroke(); });
-  cx.strokeStyle = '#fff'; cx.lineWidth = 6; cx.beginPath(); BAY.track.forEach(function(p, q){ var z = px(R, p[0], p[1]); q ? cx.lineTo(z[0], z[1]) : cx.moveTo(z[0], z[1]); }); cx.stroke();
+  var ofc = FC.tracks.OFCL ? FC.tracks.OFCL.pts.filter(function(p){ return p[0] <= 48; }).map(function(p){ return [p[1], p[2]]; }) : BAY.track;
+  cx.strokeStyle = '#fff'; cx.lineWidth = 6; cx.beginPath(); ofc.forEach(function(p, q){ var z = px(R, p[0], p[1]); q ? cx.lineTo(z[0], z[1]) : cx.moveTo(z[0], z[1]); }); cx.stroke();
   var pv = px(R, 20.61, -105.2345); cx.fillStyle = '#fff'; cx.beginPath(); cx.arc(pv[0], pv[1], 7, 0, 7); cx.fill(); text('Puerto Vallarta', pv[0] + 12, pv[1], 20, '#fff', 700, 'left', FT, true);
-  text(L('Blanco: NHC · colores: modelos (48 h)', 'White: NHC · colors: models (48 h)'), R.x + 10, R.y + R.h - 20, 17, C.ink2, 600, 'left', FT, true); cx.restore();
+  text(L('Blanco: NHC · colores: modelos (36–48 h)', 'White: NHC · colors: models (36–48 h)'), R.x + 10, R.y + R.h - 20, 17, C.ink2, 600, 'left', FT, true); cx.restore();
   // skill table
   var tx = 540, ty = MAP_TOP + 14; text(L('Error medio de posición', 'Mean position error'), tx, ty, 21, '#fff', 700, 'left', FD); text(L('últimos 2 días · toda la tormenta', 'last 2 days · whole storm'), tx, ty + 28, 17, C.mute, 500, 'left', FM);
   var rk = ['OFCL'].concat(order.map(function(k){ return MD.now[k].late; })).filter(function(k, i, a){ return MD.skill[k] && a.indexOf(k) === i; }).sort(function(a, b){ return (MD.skill[a].trk_score_recent || 999) - (MD.skill[b].trk_score_recent || 999); });
@@ -217,22 +226,28 @@ function gModels(){ header(5, L('Los modelos: cuáles han acertado y qué dicen 
   // bars
   var by = MAP_TOP + 470 + 40, bx0 = 330, bx1 = W - 60, maxkt = 118; by += wrap(L('Viento sostenido máximo en el centro de Vallarta, modelo por modelo, si el centro siguiera su línea (no es la probabilidad del NHC)', 'Peak sustained wind in downtown Vallarta, model by model, if the center followed its line (not the NHC odds)'), 40, by, W - 80, 20, 26, '#fff', 700, FD) + 8;
   var XB = function(kt){ return bx0 + Math.min(kt, maxkt) / maxkt * (bx1 - bx0); };
-  [[34, L('tormenta tropical ', 'tropical storm '), 'right', -6], [64, L(' huracán', ' hurricane'), 'left', 6]].forEach(function(q){ cx.fillStyle = C.line; cx.fillRect(XB(q[0]), by + 22, 1, 50 * 10 + 10); text(q[2] === 'right' ? q[1] + spdK(q[0]) : spdK(q[0]) + q[1], XB(q[0]) + q[3], by + 10, 16, C.mute, 600, q[2], FM); });
-  var all = ['OFCL'].concat(order);
-  all.forEach(function(k, n){ var m = MD.now[k], yy = by + 36 + n * 50, pk = m.sites.pv.peak_kt, col = k === 'OFCL' ? '#fff' : MC[order.indexOf(k) % MC.length];
+    var all = ['OFCL'].concat(order), PITCH = 46;
+  [[34, L('tormenta tropical ', 'tropical storm '), 'right', -6, L('63 km/h', '39 mph')], [64, L(' huracán', ' hurricane'), 'left', 6, L('119 km/h', '74 mph')]].forEach(function(q){ cx.fillStyle = C.line; cx.fillRect(XB(q[0]), by + 22, 1, PITCH * all.length + 10); text(q[2] === 'right' ? q[1] + q[4] : q[4] + q[1], XB(q[0]) + q[3], by + 10, 16, C.mute, 600, q[2], FM); });
+  all.forEach(function(k, n){ var m = MD.now[k], yy = by + 36 + n * PITCH, pk = m.sites.pv.peak_kt, col = k === 'OFCL' ? '#fff' : MC[order.indexOf(k) % MC.length];
     var nm = k === 'OFCL' ? L('NHC (oficial)', 'NHC (official)') : mname(k); text(nm, bx0 - 12, yy + 14, fitText(nm, 270, 19, 700, FT), '#fff', 700, 'right', FT);
     cx.fillStyle = '#1a212c'; cx.fillRect(bx0, yy, bx1 - bx0, 28); cx.fillStyle = col; cx.fillRect(bx0, yy, XB(pk) - bx0, 28);
     var lab = spdK(pk) + (m.sites.pv.closest.km < 15 ? L(' · pasa encima de la ciudad', ' · passes over the city') : ' · ' + dist(m.sites.pv.closest.km) + ' ' + L('al ', '') + c16((m.sites.pv.closest.brg + 180) % 360) + L(' de PV', ' of PV'));
     cx.font = '600 17px ' + FT; var inside = XB(pk) + 10 + cx.measureText(lab).width > bx1; text(lab, inside ? XB(pk) - 10 : XB(pk) + 10, yy + 14, 17, inside ? '#0b0e13' : '#fff', 700, inside ? 'right' : 'left', FT, !inside); });
-  var v50 = WC.v50_kt, yb = by + 36 + all.length * 50; cx.strokeStyle = C.ok; cx.lineWidth = 3; cx.setLineDash([8, 6]); cx.beginPath(); cx.moveTo(XB(v50), by + 30); cx.lineTo(XB(v50), yb); cx.stroke(); cx.setLineDash([]);
+  var v50 = WC.v50_kt, yb = by + 36 + all.length * PITCH; cx.strokeStyle = C.ok; cx.lineWidth = 3; cx.setLineDash([8, 6]); cx.beginPath(); cx.moveTo(XB(v50), by + 30); cx.lineTo(XB(v50), yb); cx.stroke(); cx.setLineDash([]);
   text(L('50-50 según las probabilidades del NHC: ' + spdK(v50), '50-50 from the NHC odds: ' + spdK(v50)), XB(v50) + 8, yb + 16, 18, C.ok, 700, 'left', FT, true);
-  var overL = order.filter(function(k){ return MD.now[k].sites.pv.closest.km < 15; }), near = order.slice().sort(function(a, b){ return MD.now[a].sites.pv.closest.km - MD.now[b].sites.pv.closest.km; })[0];
-  var b0 = MD.skill[rk[0]].name[LANG === 'es' ? 0 : 1].replace(/ \(.*\)$/, ''), b1 = MD.skill[rk[1]].name[LANG === 'es' ? 0 : 1].replace(/ \(.*\)$/, '');
+  var byNear = order.slice().sort(function(a, b){ return MD.now[a].sites.pv.closest.km - MD.now[b].sites.pv.closest.km; }), overL = byNear.filter(function(k){ return MD.now[k].sites.pv.closest.km < 15; });
+  var nm0 = MD.skill[rk[0]].name[LANG === 'es' ? 0 : 1].replace(/ \(.*\)$/, ''), nm1 = MD.skill[rk[1]].name[LANG === 'es' ? 0 : 1].replace(/ \(.*\)$/, '');
+  var b0 = rk[0] === 'OFCL' ? L('el NHC', 'the NHC') : nm0, b1 = rk[1] === 'OFCL' ? L('el NHC', 'the NHC') : nm1;
+  var bestKm = [rk[0], rk[1]].map(function(k){ var e = k === 'OFCL' ? MD.now.OFCL : Object.keys(MD.now).filter(function(q){ return MD.now[q].late === k; }).map(function(q){ return MD.now[q]; })[0]; return e ? e.sites.pv.closest.km : null; }).filter(function(x){ return x !== null; });
+  var bestDir = c8((MD.now.OFCL.sites.pv.closest.brg + 180) % 360), bestKmTxt = bestKm.length ? L(' a ' + dist(Math.min.apply(null, bestKm)) + '–' + dist(Math.max.apply(null, bestKm)).replace(/^(\d+)/, '$1'), ' ' + dist(Math.min.apply(null, bestKm)) + '–' + dist(Math.max.apply(null, bestKm))) : '';
+  var two = byNear.slice(0, 2), recErr = function(k){ var sk = MD.skill[MD.now[k].late]; return sk && sk.trk_score_recent !== null ? dist(sk.trk_score_recent) : null; };
   var mid = overL.length ? L('Los que lo ponen encima de la ciudad (' + overL.map(mname).join(' y ') + ') han sido los menos acertados en esta tormenta.', 'The ones that put it over the city (' + overL.map(mname).join(' and ') + ') have been the least accurate in this storm.')
-                         : L('Ninguno lo pasa sobre la ciudad; el más cercano es ' + mname(near) + ', a unos ' + dist(MD.now[near].sites.pv.closest.km) + ', y ha sido de los menos acertados en esta tormenta.', 'None passes it over the city; the closest is ' + mname(near) + ', about ' + dist(MD.now[near].sites.pv.closest.km) + ' away, and it has been among the least accurate in this storm.');
-  rich(L('*Lectura:* los modelos que mejor han seguido a Simon (' + b0 + ', ' + b1 + ') dejan el centro al oeste de Vallarta. ' + mid + ' Ningún modelo decide: el NHC da *' + PP['64'] + '%* de viento de huracán en Vallarta y *' + PP['34'] + '%* de tormenta tropical.',
-         '*Reading it:* the models that have tracked Simon best (' + b0 + ', ' + b1 + ') keep the center west of Vallarta. ' + mid + ' No single model decides: the NHC gives Vallarta *' + PP['64'] + '%* for hurricane-force wind and *' + PP['34'] + '%* for tropical-storm force.'), 40, yb + 56, W - 80, 21, 28, C.ink2);
-  footer([L('Modelos del ciclo ' + FC.cycle.slice(6, 8) + '/' + FC.cycle.slice(8) + 'Z (NHC/ATCF). Error: contra la trayectoria oficial observada. Viento en Vallarta: estructura de viento del NHC sobre la línea de cada modelo, sin la corrección por probabilidades.', 'Models from the ' + FC.cycle.slice(8) + 'Z ' + FC.cycle.slice(6, 8) + ' Oct cycle (NHC/ATCF). Error: against the observed official track. Vallarta wind: the NHC wind structure on each model’s line, without the odds-based correction.')]); }
+                         : L('Ninguno lo pasa sobre la ciudad. Los dos que más lo acercan, ' + mname(two[0]) + ' (' + dist(MD.now[two[0]].sites.pv.closest.km) + ') y ' + mname(two[1]) + ' (' + dist(MD.now[two[1]].sites.pv.closest.km) + '), son los que dan ' + spdK(MD.now[two[0]].sites.pv.peak_kt) + ' y ' + spdK(MD.now[two[1]].sites.pv.peak_kt) + '; en los últimos dos días su error medio fue de ' + recErr(two[0]) + ' y ' + recErr(two[1]) + '.',
+                              'None passes it over the city. The two that bring it closest, ' + mname(two[0]) + ' (' + dist(MD.now[two[0]].sites.pv.closest.km) + ') and ' + mname(two[1]) + ' (' + dist(MD.now[two[1]].sites.pv.closest.km) + '), are the ones giving ' + spdK(MD.now[two[0]].sites.pv.peak_kt) + ' and ' + spdK(MD.now[two[1]].sites.pv.peak_kt) + '; over the last two days their mean error was ' + recErr(two[0]) + ' and ' + recErr(two[1]) + '.');
+  rich(L('*Lectura:* los pronósticos que mejor han seguido a Simon (' + b0 + ' y ' + b1 + ') dejan el centro' + bestKmTxt + ' al ' + bestDir + ' de Vallarta. ' + mid + ' Ningún modelo decide: el NHC da *' + PP['64'] + '%* de viento de huracán en Vallarta y *' + PP['34'] + '%* de tormenta tropical.',
+         '*Reading it:* the forecasts that have tracked Simon best (' + b0 + ' and ' + b1 + ') keep the center' + bestKmTxt + ' ' + bestDir + ' of Vallarta. ' + mid + ' No single model decides: the NHC gives Vallarta *' + PP['64'] + '%* for hurricane-force wind and *' + PP['34'] + '%* for tropical-storm force.'), 40, yb + 56, W - 80, 21, 28, C.ink2);
+  var ns = []; rk.forEach(function(k){ [12, 24, 36].forEach(function(t){ var q = MD.skill[k].taus[String(t)]; if (q && q.n_trk_recent) ns.push(q.n_trk_recent); }); }); var nLo = ns.length ? Math.min.apply(null, ns) : 0, nHi = ns.length ? Math.max.apply(null, ns) : 0;
+  footer([L('Modelos del ciclo ' + FC.cycle.slice(6, 8) + '/' + FC.cycle.slice(8) + 'Z (NHC/ATCF). Error: contra la trayectoria oficial observada; «últimos 2 días» promedia solo ' + nLo + ' a ' + nHi + ' pronósticos por modelo y plazo, así que el orden puede cambiar. Viento en Vallarta: estructura de viento del NHC sobre la línea de cada modelo, sin la corrección por probabilidades.', 'Models from the ' + FC.cycle.slice(8) + 'Z ' + FC.cycle.slice(6, 8) + ' Oct cycle (NHC/ATCF). Error: against the observed official track; “last 2 days” averages only ' + nLo + ' to ' + nHi + ' forecasts per model and lead time, so the order can change. Vallarta wind: the NHC wind structure on each model’s line, without the odds-based correction.')]); }
 var GRAPHICS = {wind: gWind, rain: gRain, flood: gFlood, timing: gTiming, models: gModels};
 window.render = function(g, lang){ LANG = lang || 'es'; document.documentElement.lang = LANG; cx.setTransform(1, 0, 0, 1, 0, 0); GRAPHICS[g](); };
 window.READY = READY;
